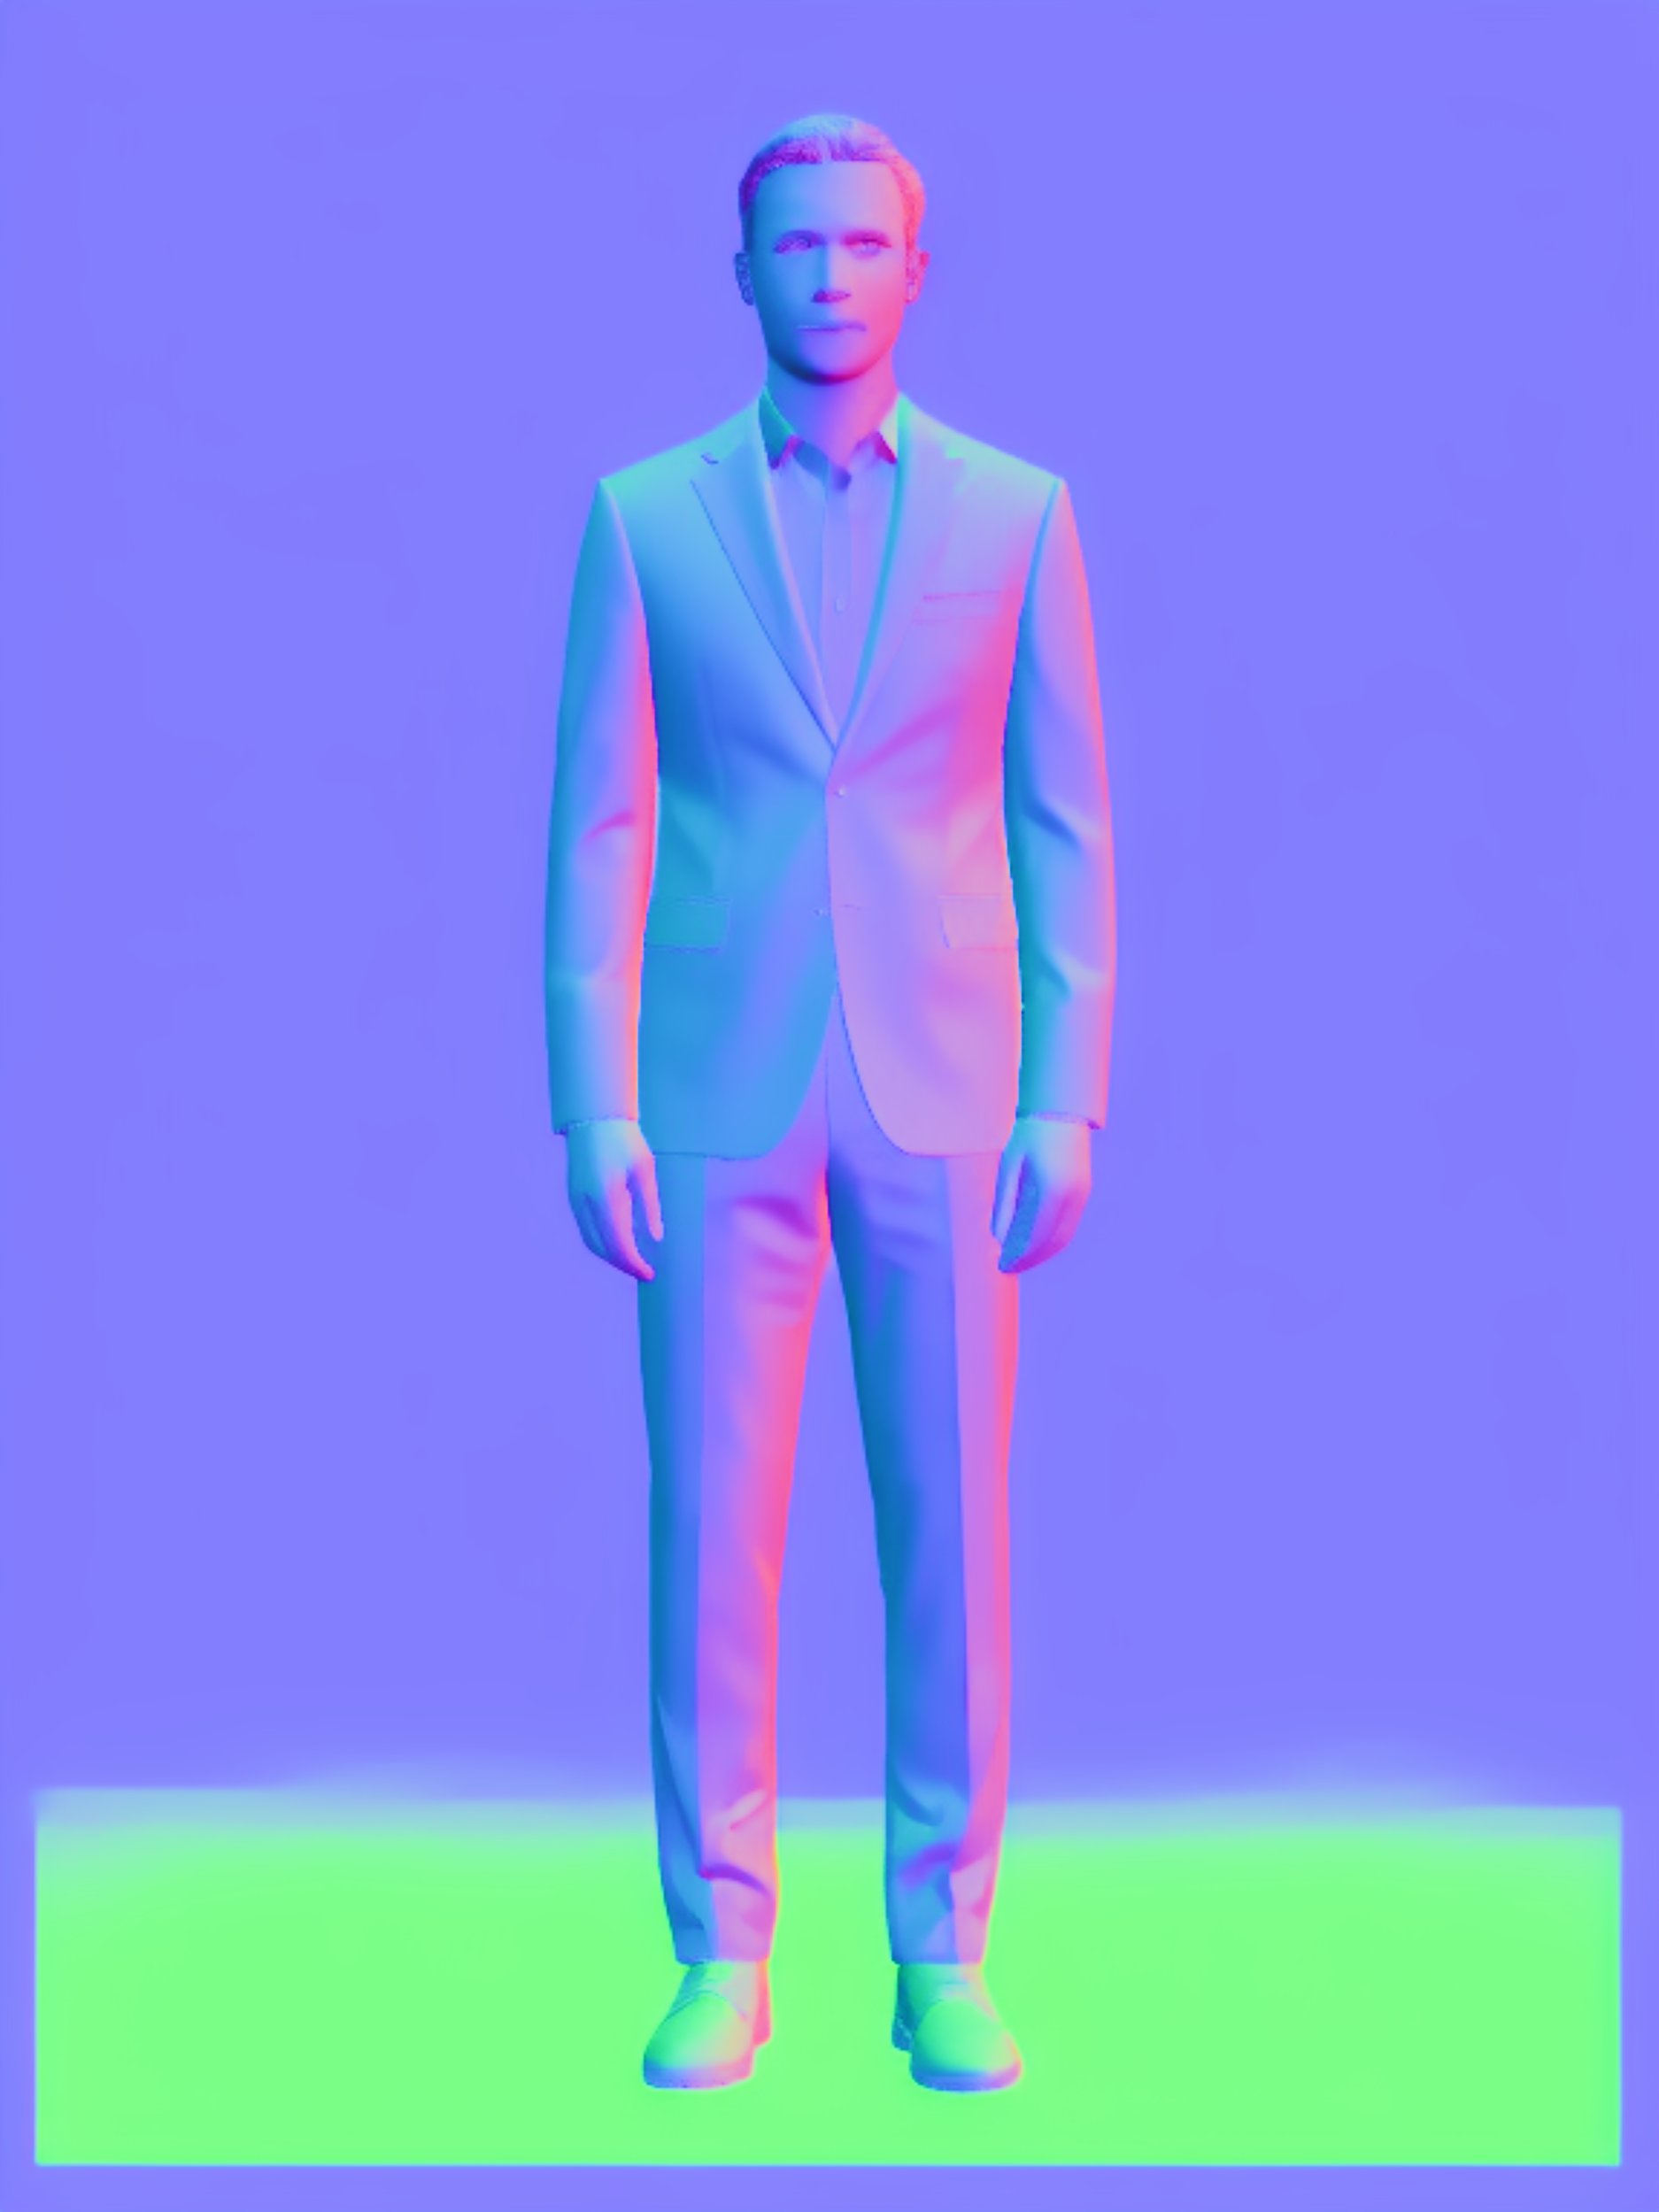
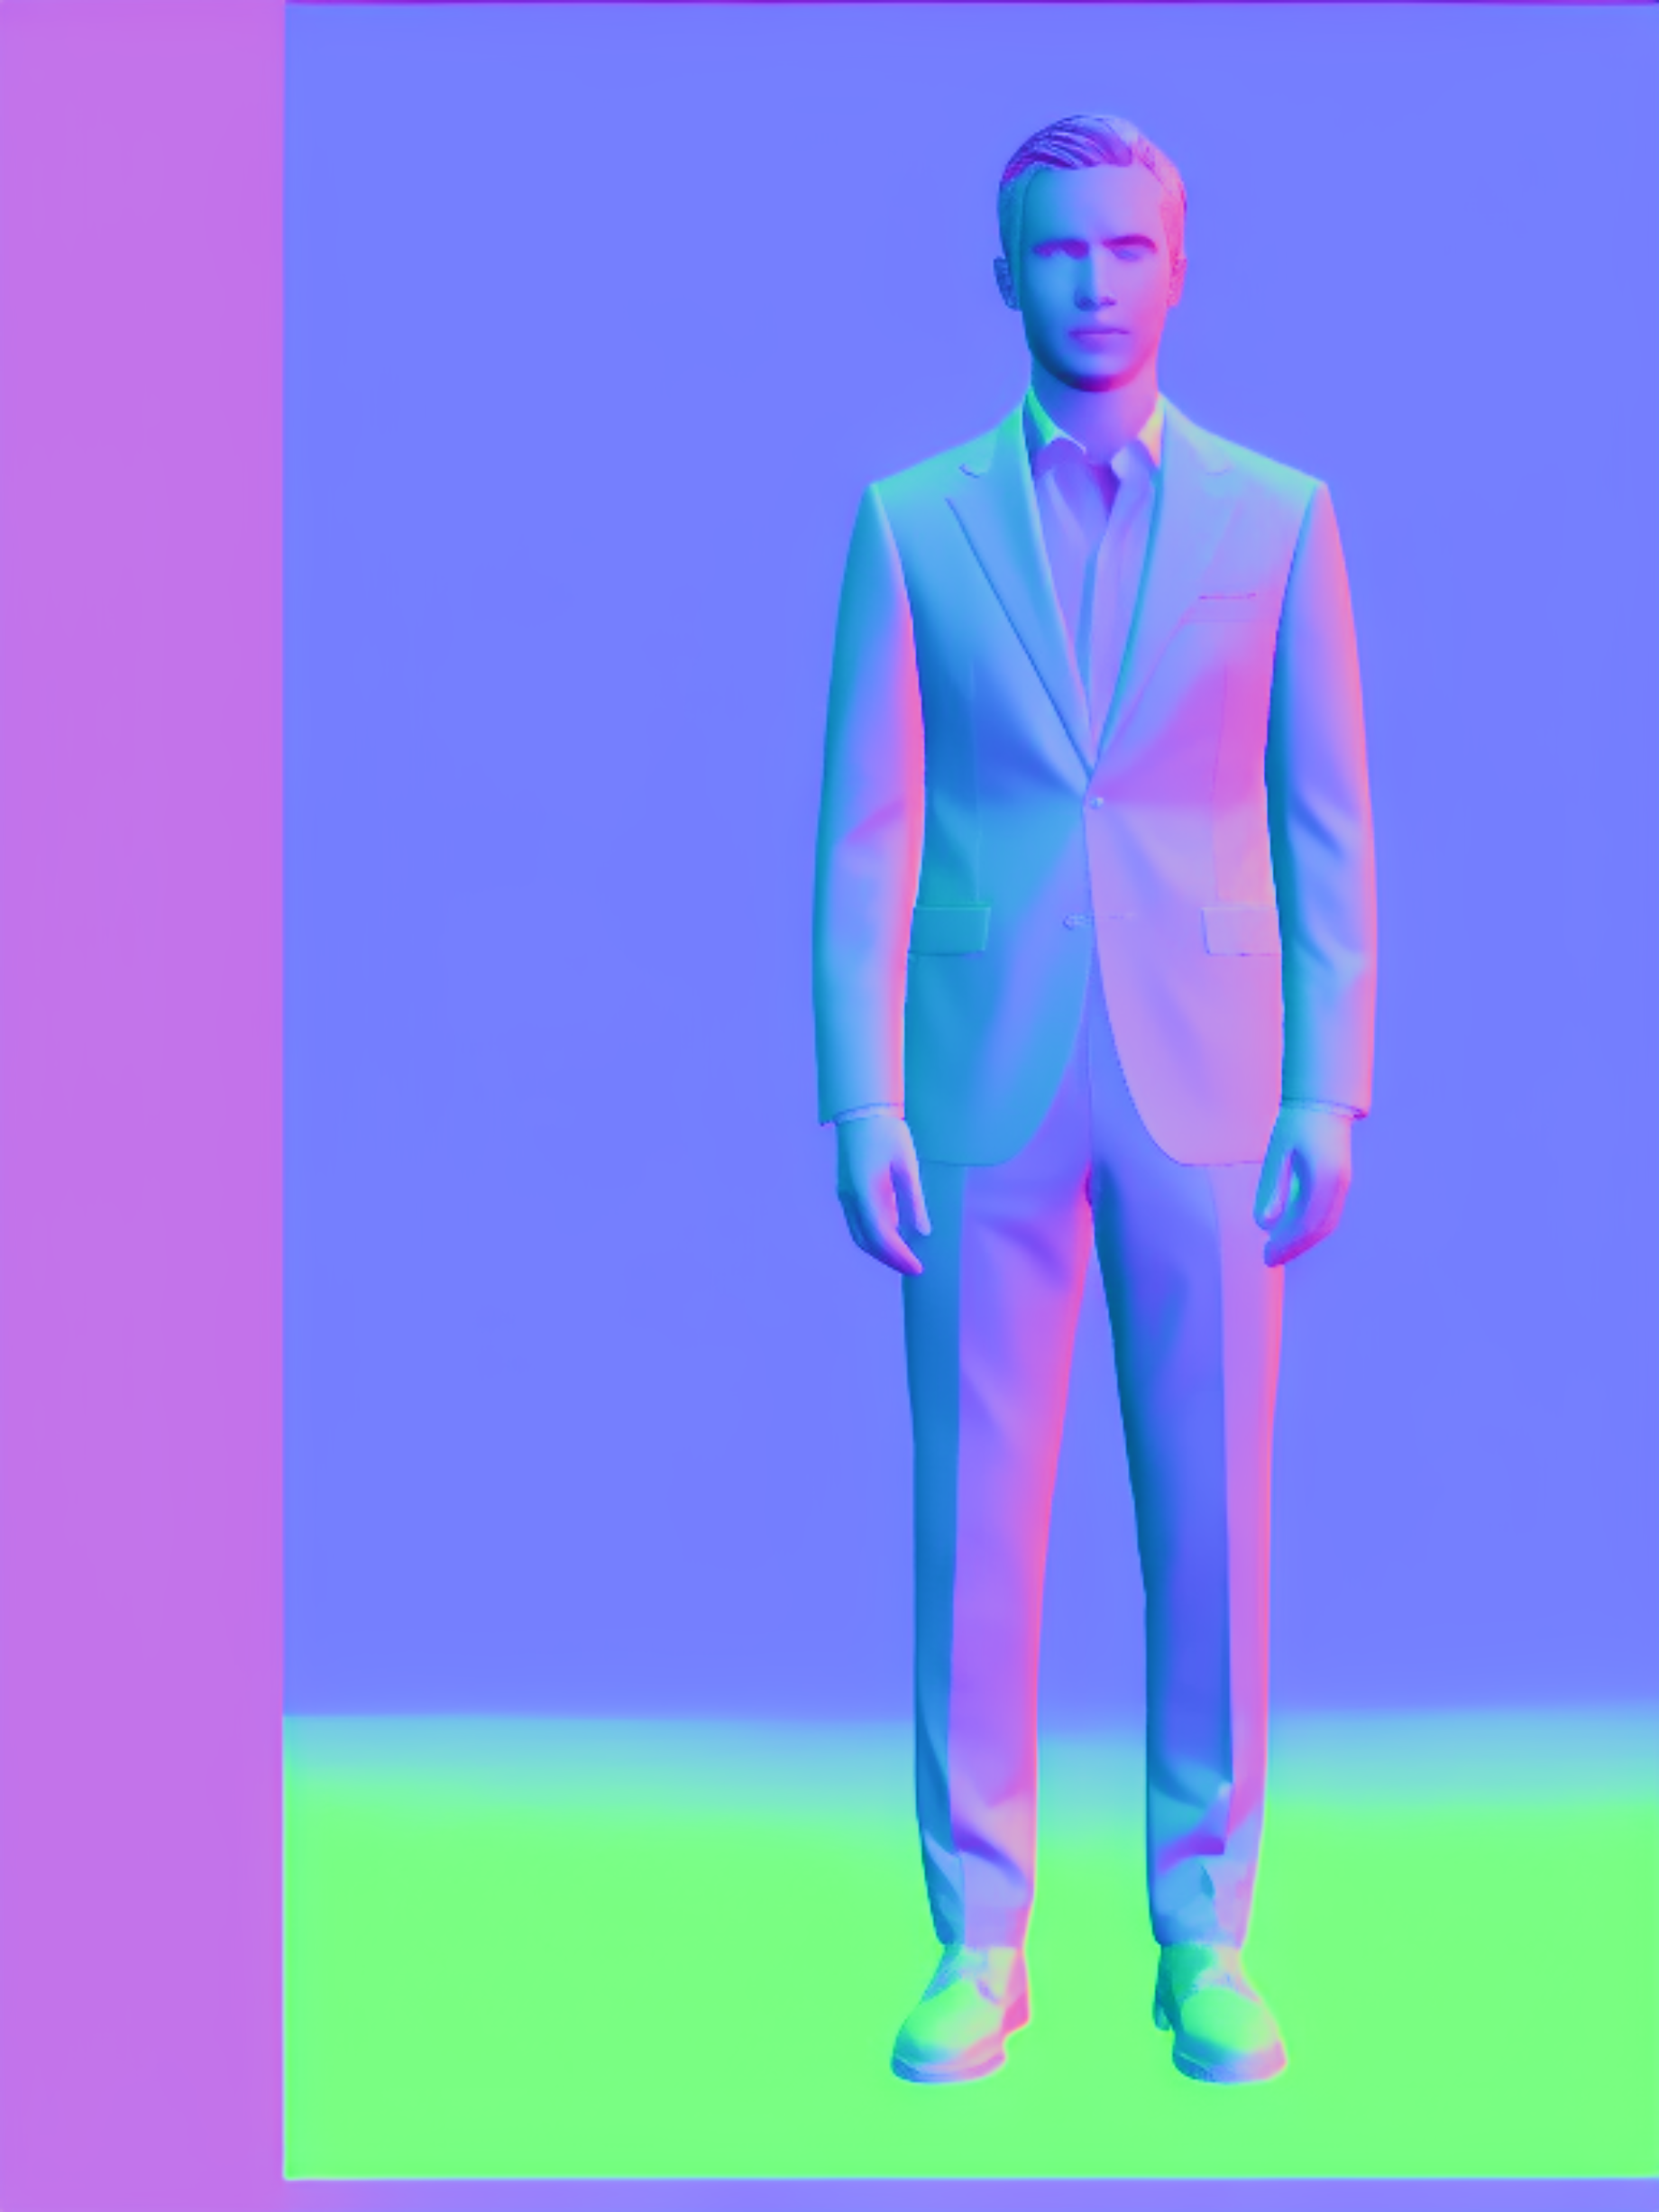
v6a hero in the configurator: three derivation fixes for the new render
The user flagged stripes leaning "in the wrong direction" on the
pinstripe. Verified on a hash-checked clean serve — not staleness.
Marigold also exonerated (its only runtime job is sheen placement).
All three causes were derivation thresholds tuned to the first house
model that did not stretch to the new one:

1. panels.py _lapels: the lapel band was a FIXED 8.5cm width that
   happened to fit the old jacket. The v6 hero's lapel is slimmer, so
   the band spilled onto plain chest cloth, which then carried the
   +-16deg grain rotation — diagonal stripes across the chest. The
   outer edge is now DETECTED per row from the lapel's own edge crease
   (strongest luminance minimum outboard of the roll line, depth >= 6
   levels), interpolated + 15-row median so one noisy row cannot notch
   the band, taper-capped near the gorge, taper fallback when a side's
   detections are <25% of rows. Lapel px 27k/26k -> 18k/13k, band now
   hugs the visible lapel on both sides.

2. on_stage: near-test 218 -> 195 luminance, sat 0.10 -> 0.18. The new
   render's contact shadow is bigger and softer; 47% of it sat below
   218, survived keying, and smeared white across the flat stage.
   Garment p99 is ~137 and skin is saturated, so the figure is safe;
   connectivity still protects the enclosed shirt.

3. make_mask shoe hull reach 15 -> 60 columns: a 2,577px floor-shadow
   patch beside the shoe sat outside the +-15 hull and rendered as
[…]

diff --git a/builder/panels.py b/builder/panels.py
@@ -27,6 +27,7 @@ defect the first drafts had was caught by looking at that sheet, never by a numb
 """
 import numpy as np
 from PIL import Image
+from PIL import ImageFilter as _IFILT
 
 # ---------------------------------------------------------------- panel ids
 # 0 = not garment. Dense and small: the runtime uses these to index per-panel angle/anchor
@@ -332,19 +333,76 @@ def _lapels(render, b, lm, panel, px_per_cm):
     # into an X below the button — extrapolating them any further is meaningless.
     wide = int(round(LAPEL_CM * px_per_cm))
     y_cap = lm["shoulder_y"] + int(0.75 * max(1, lm["hem_y"] - lm["shoulder_y"]))
+
+    # ---- OUTER EDGE FROM THE RENDER, NOT FROM A FIXED WIDTH (2026-07-23) ----
+    # LAPEL_CM was tuned on the first house model and happened to match his jacket. The v6 hero's
+    # lapel is cut slimmer, and the fixed band spilled past the lapel's outer edge onto plain
+    # chest cloth — which then carried the ±16° grain rotation, printing diagonal stripes across
+    # the chest ("lines in the wrong direction", user-flagged, and correct). A real lapel ends at
+    # its own edge crease: the folded edge reads as a dark line a few px wide against the chest.
+    # Detect it per row: the strongest local luminance minimum outboard of the roll line, within
+    # the plausible width. Median-filter the detections so one noisy row cannot notch the band,
+    # and fall back to the old taper where no crease is found (deep shadow, low contrast).
+    lum_s = np.asarray(Image.fromarray(a.mean(-1).astype(np.uint8))
+                       .filter(_IFILT.GaussianBlur(1.5)), float)
+    def _edge(y, x_roll, sign):
+        x0 = int(round(x_roll + sign * 0.12 * wide))
+        x1 = int(round(x_roll + sign * 1.15 * wide))
+        lo, hi = (min(x0, x1), max(x0, x1))
+        if lo < 0 or hi >= W or hi - lo < 6:
+            return None
+        prof = lum_s[y, lo:hi]
+        i = int(np.argmin(prof))
+        if i <= 1 or i >= len(prof) - 2:
+            return None
+        depth = min(prof[:i].max(), prof[i:].max()) - prof[i]
+        if depth < 6:                      # no real crease: flat cloth or shadow
+            return None
+        return lo + i if sign > 0 else hi - (len(prof) - 1 - i)
+    # PASS 1 — collect per-row detected widths for both sides. PASS 2 — interpolate the misses
+    # and run a 15-row median so one noisy row cannot notch the band. A side whose detections
+    # are too sparse (<25% of rows) falls back to the taper entirely rather than trusting
+    # scattered hits — that is what produced a ragged comb on the first attempt at this.
+    rows_y, wL_raw, wR_raw = [], [], []
     for y in range(gorge_y, min(H, y_cap + 1)):
         lxi, rxi = np.polyval(pl, y), np.polyval(pr, y)
         if rxi - lxi < 0.10 * wide:            # roll lines have met: past the break point
             break
-        # A real lapel is narrow at the gorge and reaches full width by the chest. Without the
-        # taper the top of the band squares off across the shoulder beside the collar.
+        rows_y.append(y)
+        eL = _edge(y, lxi, -1)
+        eR = _edge(y, rxi, +1)
+        wL_raw.append(abs(lxi - eL) if eL is not None else np.nan)
+        wR_raw.append(abs(eR - rxi) if eR is not None else np.nan)
+    if not rows_y:
+        return
+
+    def _clean(wraw):
+        w_arr = np.array(wraw, float)
+        okm = ~np.isnan(w_arr)
+        if okm.mean() < 0.25:
+            return None
+        idx = np.arange(len(w_arr))
+        w_arr = np.interp(idx, idx[okm], w_arr[okm])
+        k = 7
+        pad = np.pad(w_arr, k, mode="edge")
+        med = np.array([np.median(pad[i:i + 2 * k + 1]) for i in range(len(w_arr))])
+        return np.clip(med, 0.30 * wide, 1.05 * wide)
+
+    wL, wR = _clean(wL_raw), _clean(wR_raw)
+    for j, y in enumerate(rows_y):
+        lxi, rxi = np.polyval(pl, y), np.polyval(pr, y)
+        # A real lapel is narrow at the gorge and reaches full width by the chest. The taper
+        # still CAPS the band near the gorge even when a real edge is detected, or the band
+        # squares off across the shoulder beside the collar.
         t = (y - gorge_y) / max(1.0, 0.35 * (y_cap - gorge_y))
         wide_y = int(round(wide * min(1.0, GORGE_FRAC + (1 - GORGE_FRAC) * t)))
-        a0, a1 = int(round(lxi - wide_y)), int(round(lxi))
+        wide_y_L = min(int(round(wL[j])), wide_y) if wL is not None else wide_y
+        wide_y_R = min(int(round(wR[j])), wide_y) if wR is not None else wide_y
+        a0, a1 = int(round(lxi - wide_y_L)), int(round(lxi))
         if a1 > a0:
             seg = np.zeros(W, bool); seg[max(0, a0):max(0, a1)] = True
             panel[y, seg & b[y]] = LAPEL_L
-        c0, c1 = int(round(rxi)), int(round(rxi + wide_y))
+        c0, c1 = int(round(rxi)), int(round(rxi + wide_y_R))
         if c1 > c0:
             seg = np.zeros(W, bool); seg[max(0, c0):min(W, c1)] = True
             panel[y, seg & b[y]] = LAPEL_R

diff --git a/builder/make_mask.py b/builder/make_mask.py
@@ -172,13 +172,17 @@ def suit_mask(img, clean=CLEAN, feather=FEATHER):
         step = can & dim
         start = start - step.astype(int)
         if not step.any(): break
-    # regional hull: columns at the shoe edges (highlight/penumbra) have no clean leather
+    # regional hull: columns at the shoe edges (highlight/penumbra) have no clean leather.
+    # Reach 15 -> 60 (2026-07-23): the v6 hero stands with a slightly wider stance and casts a
+    # floor shadow beside the shoe; a 2,577 px patch of it at x1133-1182 sat outside the ±15
+    # hull and rendered as cloth on the floor. Columns with no shoe within 60 px keep start=inf,
+    # so trousers on every other render are untouched.
     # run and kept their cloth all the way down, leaving translucent vertical bands beside
     # each shoe. Take the running MIN of start over ±15 columns so the cut covers the whole
     # shoe blob; columns further than that from any shoe are untouched.
     startf = np.where(has, start, 10 ** 6).astype(np.int32)
     hull = startf.copy()
-    for s in range(1, 16):
+    for s in range(1, 61):
         hull = np.minimum(hull, np.roll(startf, s))
         hull = np.minimum(hull, np.roll(startf, -s))
     rows = np.arange(dark.shape[0])[:, None]

diff --git a/builder/build_configurator_v0.py b/builder/build_configurator_v0.py
@@ -213,7 +213,11 @@ def on_stage(im):
     mx, mn = a.max(-1), a.min(-1)
     sat = (mx - mn) / _np.maximum(mx, 1e-6)
     lum = a.mean(-1)
-    near = (lum > 218) & (sat < 0.10)                  # sweep + its shadow, not the suit/skin
+    # 218 -> 195 (2026-07-23): the v6 hero's contact shadow is bigger and softer than the first
+    # model's — 47% of its pixels sat below 218, survived the keying, and smeared across the new
+    # flat stage. The garment's p99 is ~137 and skin is saturated, so 195/0.18 still cannot touch
+    # the figure; connectivity (below) is what protects the enclosed white shirt either way.
+    near = (lum > 195) & (sat < 0.18)                  # sweep + its shadow, not the suit/skin
     h, w = near.shape
     # --- connectivity on a proxy, so we only take sweep that reaches the frame edge ---
     sw = 448; sh = max(1, int(h * sw / w))